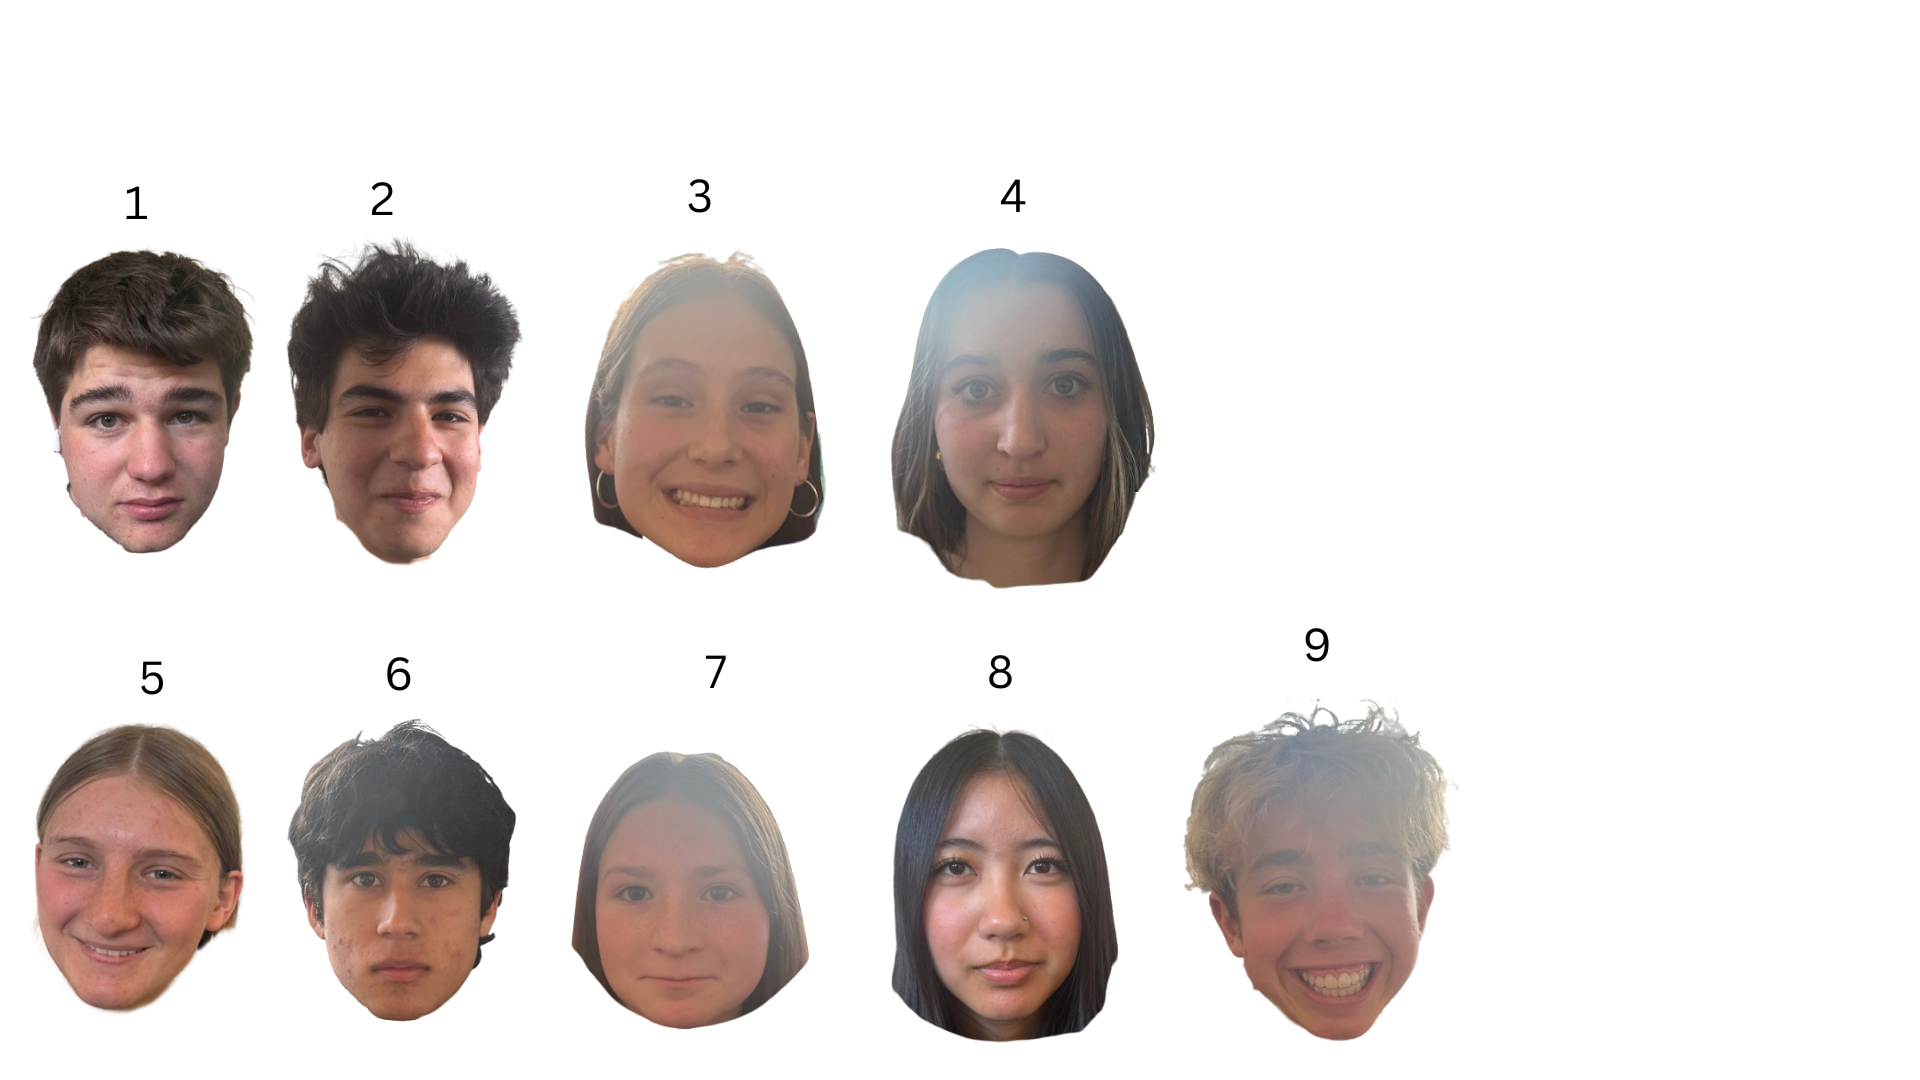
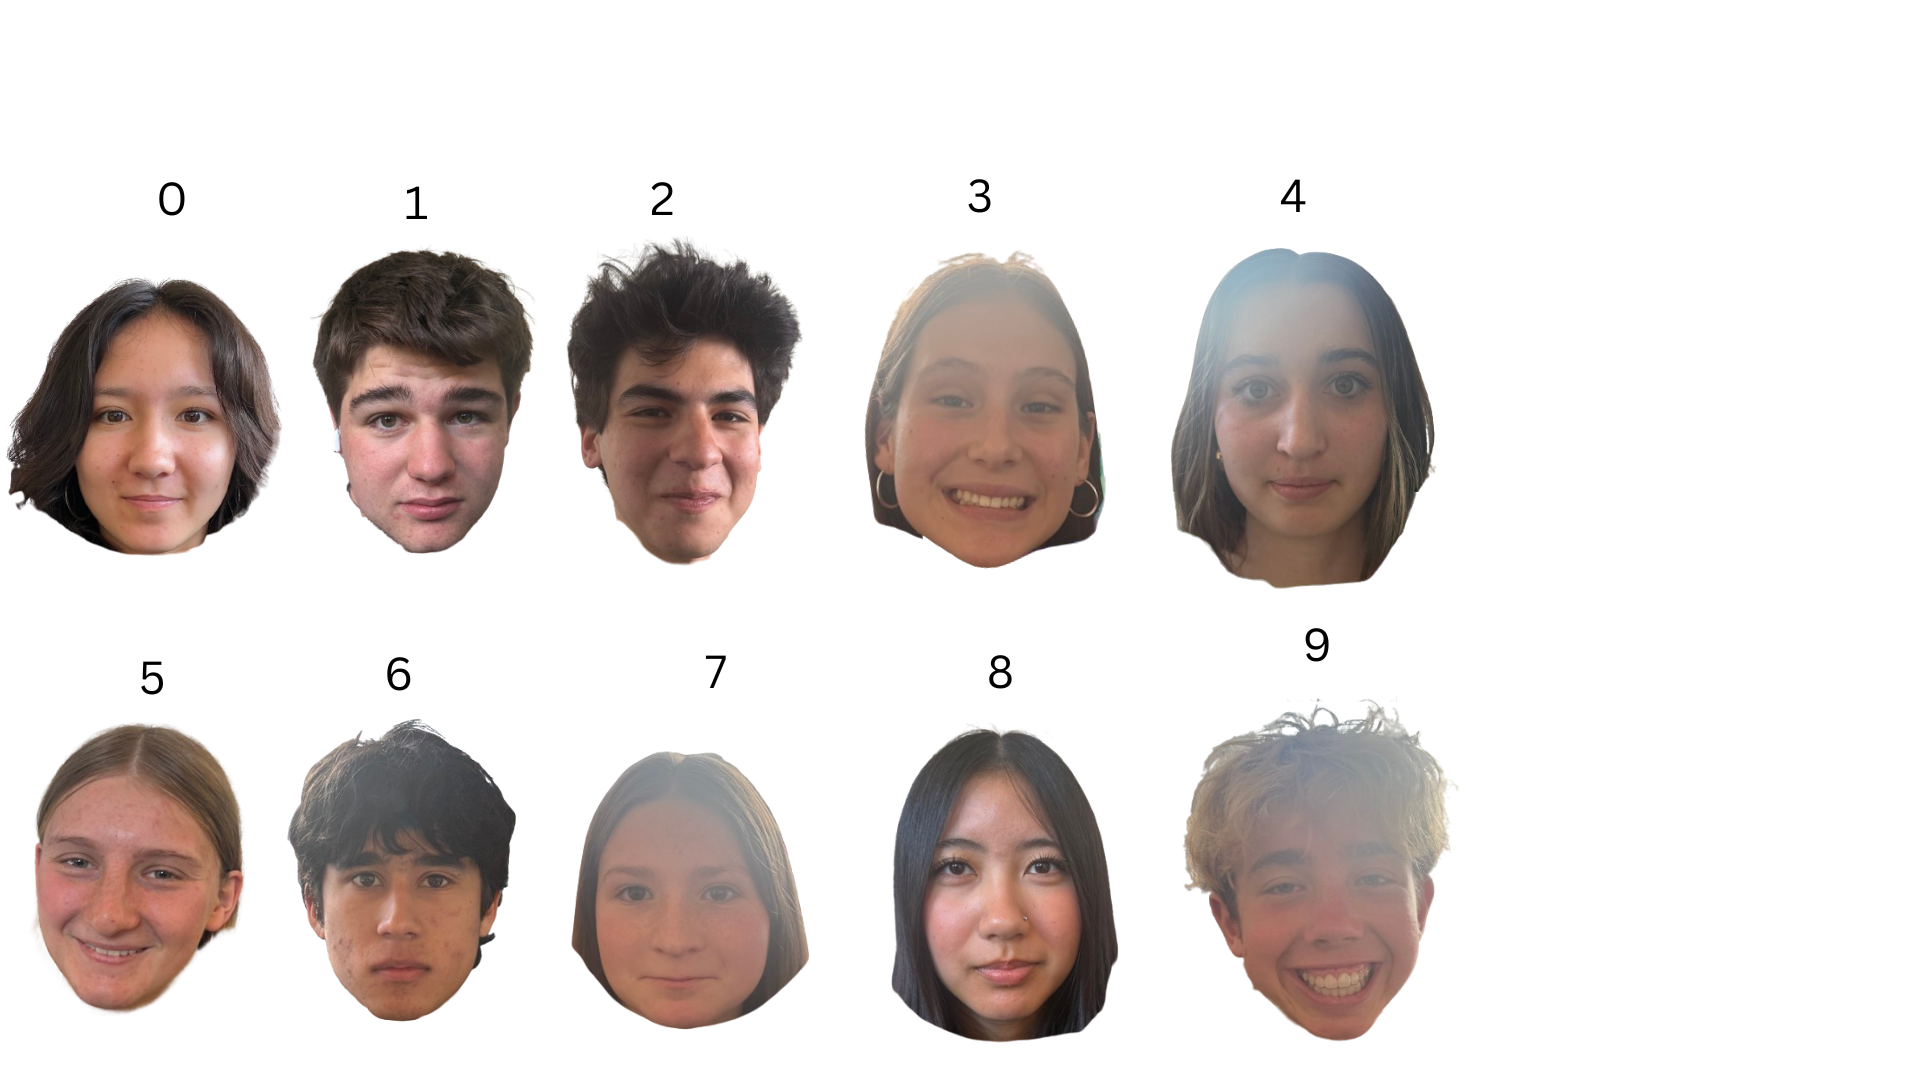
done again

Changed region(s): [[0.0, 0.1528, 0.75, 0.55]]

diff --git a/script.js b/script.js
@@ -21,7 +21,7 @@ function preload() {
     micaela = loadImage("micaela.png");
     molly = loadImage("molly.png");
     venice = loadImage("venice.png");
-    maia = "hi";
+    maia = loadImage("maia.png");
     people = [maia, arden, maximus, molly, anna, venice, devon, brooke, micaela, dash];
 }
 
@@ -58,8 +58,8 @@ class Player {
         }
 
         fill("blue");
-        circle(this.x, this.y, 30);
-        for(let i = 1; i<10; i++){
+        circle(this.x, this.y, 35);
+        for(let i = 0; i<10; i++){
             if(character == i){
                 image(people[character], this.x - 35, this.y - 50, 75, 100);
             }
